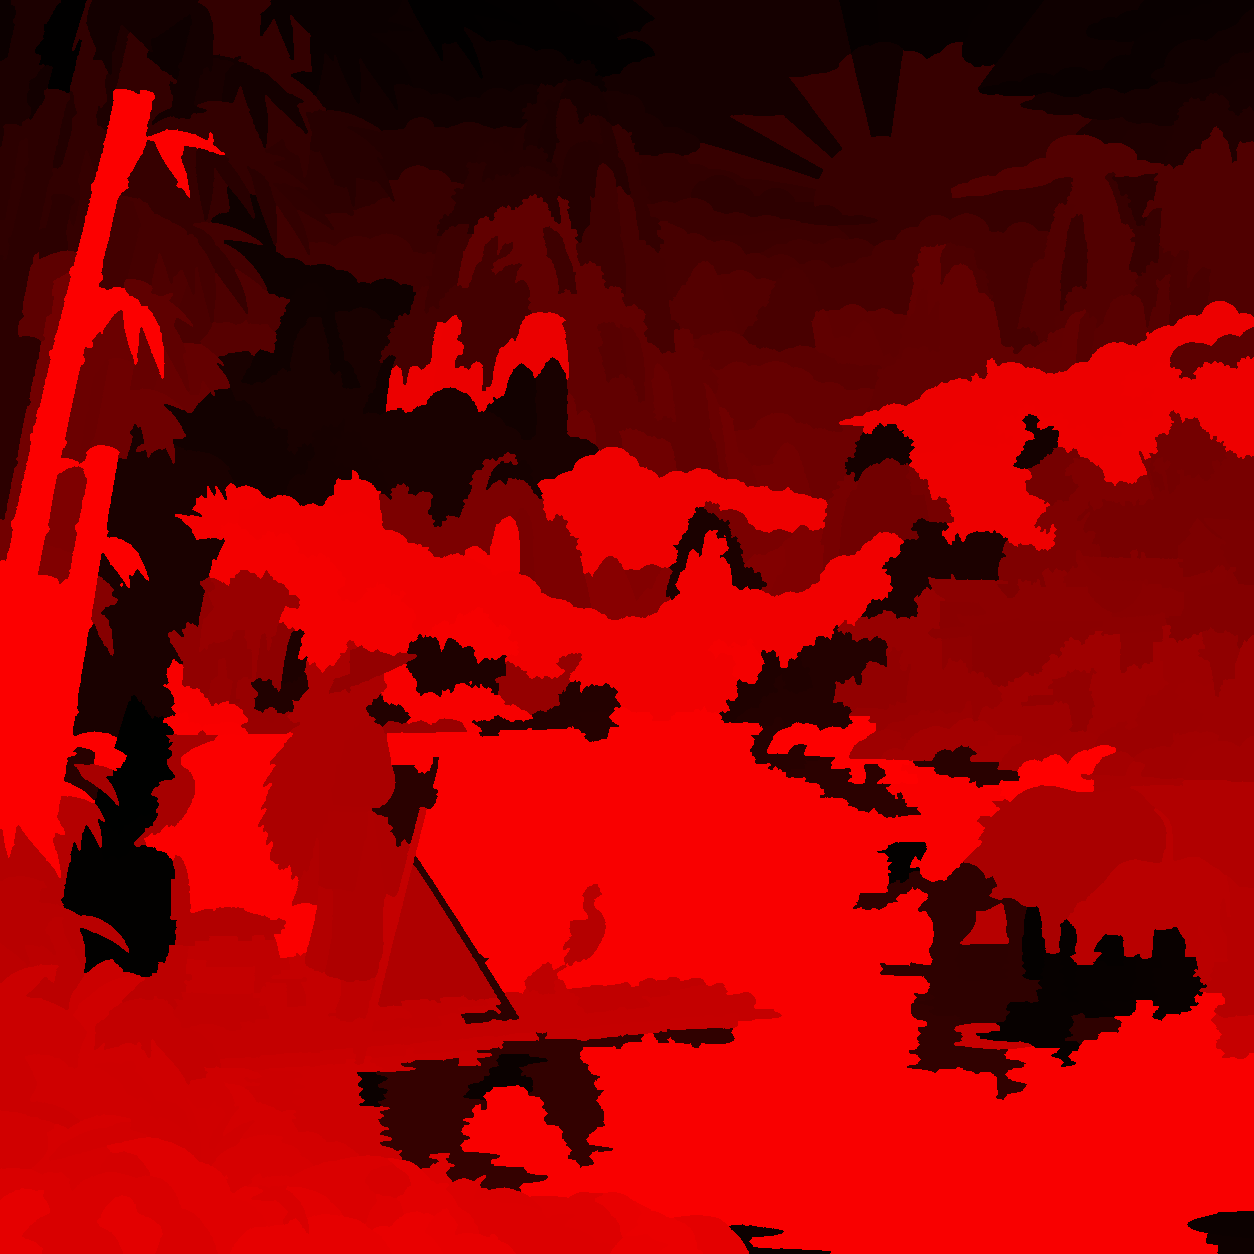
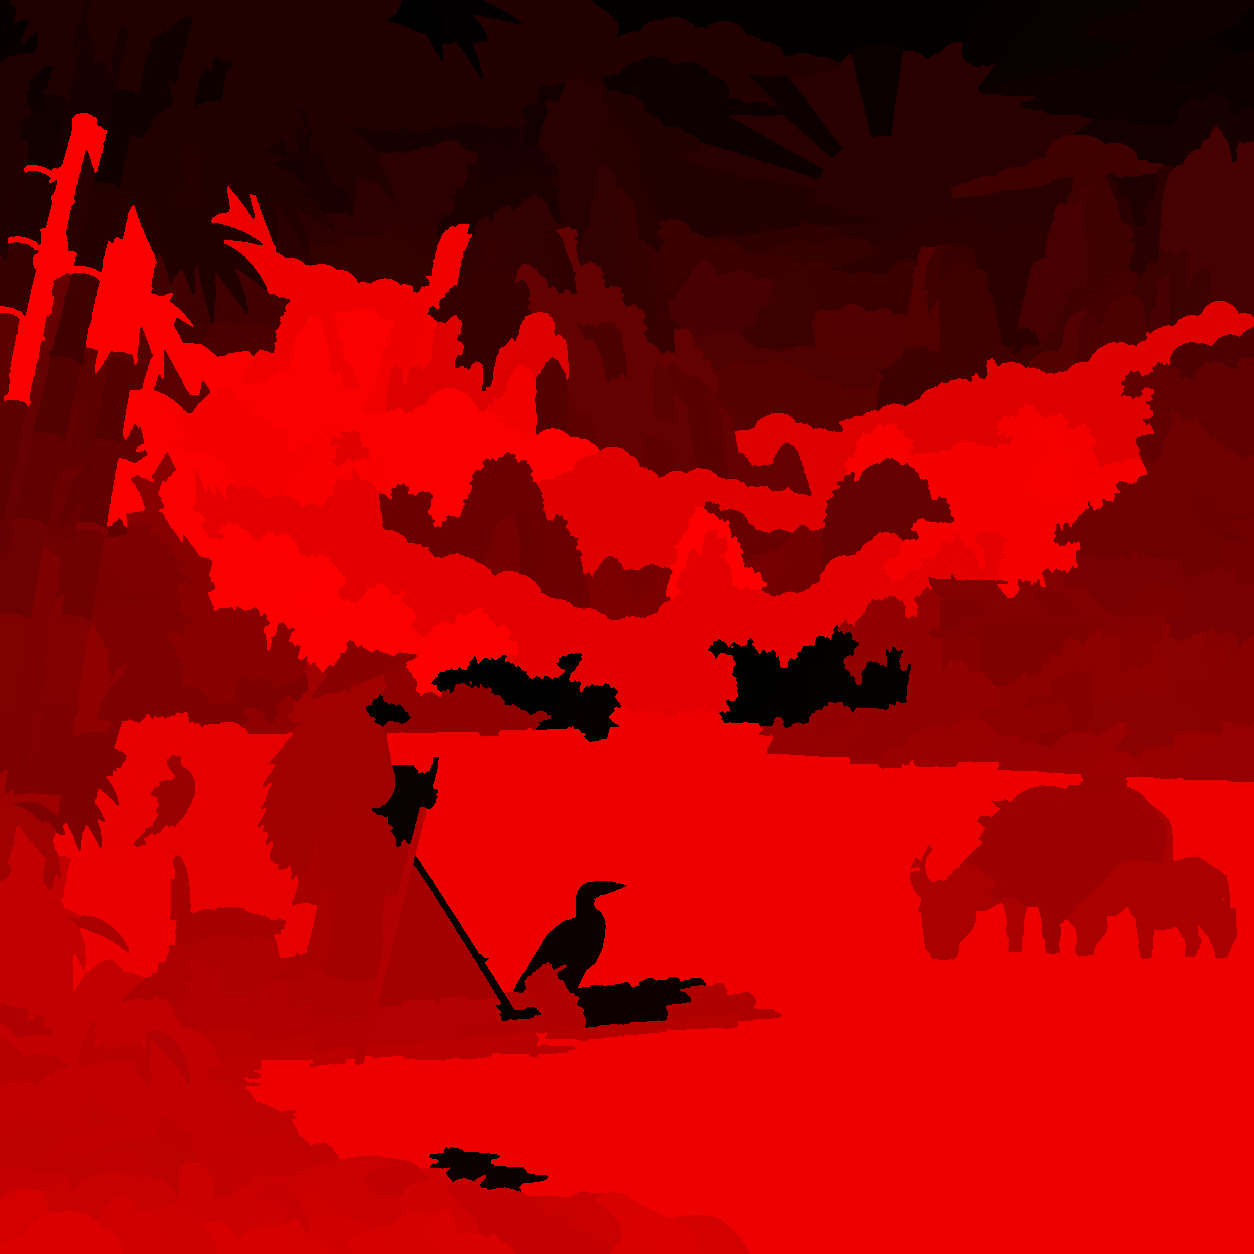
Guilin: the water is one piece that fills to its edges
A water mask (pages/water/<slug>.png) marks the river. The page builder
makes everything inside it one piece in the water's colour: reflections
under the raft and buffalo, the far-shore reflections, the water between
the buffalo's legs and behind its back. Only water cut off by something
standing in it (behind the fisherman by the bird on the post, between his
two poles) is its own piece, numbered the same. Things in the water (bird,
buffalo, horn, raft, man) never join the water, and old cut-line marks
inside the water come out of the drawing.

Builds are now repeatable (fixed k-means seed).

diff --git a/tools/book_page.py b/tools/book_page.py
@@ -9,6 +9,9 @@ becomes one piece you tap, as in a coloring book: small gaps in the long outline
 grey ticks show where), so the water does not run into the mist or a hill. Specks and pieces too small to
 colour join a small neighbour. Each piece is numbered with its main painted colour (sunlight and glow count
 as light on it: water with a sun path is blue), and filling it brings back every colour the painting has there.
+Where pages/water/<slug>.png marks the water (white), all of it is one piece in that colour, reflections and
+ripples included, so one tap colours it to its edges; only a part cut off by something standing in it (the water
+between a fisherman and his bird) is a piece of its own, numbered the same.
 
 Writes public/pages/<slug>/: labels.png, regions.json (v 3, no blob outlines), ink.png (the drawing,
 2x, solid black lines), line.png (the drawing, page size). Updates public/pages.json (regions, colors).
@@ -28,6 +31,7 @@ ap.add_argument('--min', type=float, default=700, help='pieces smaller than this
 ap.add_argument('--gap', type=float, default=4, help='outline gaps up to about twice this (px on a 1254px page) are closed, so each drawn shape is its own piece')
 ap.add_argument('--cap', type=float, default=3, help='touching same-number pieces join only while the piece stays under this %% of the page')
 ap.add_argument('--glow', type=float, default=0.3, help='a piece that is partly sunlight/glow colours takes the number of its deeper colour when that covers at least this share')
+ap.add_argument('--water', default=os.path.join(R, 'pages', 'water'), help='folder of water masks (<slug>.png, white = the water)')
 ap.add_argument('--shade', type=float, default=1.0)
 a = ap.parse_args()
 
@@ -143,11 +147,39 @@ def build(slug):
     remap = np.zeros(lab.max() + 1, np.int32); remap[ids] = np.arange(1, len(ids) + 1)
     lab = remap[lab]; Rn = len(ids)
 
-    blur = cv2.cvtColor(cv2.GaussianBlur(C, (0, 0), 6 * k2 ** 0.5), cv2.COLOR_BGR2LAB).astype(np.float32)
+    # 4b. the water. Where pages/water/<slug>.png exists, its white part is the water: every spot inside it (ripples,
+    #     reflections, the water behind a buffalo's back) is water, and a spot the water's edge runs through (a leg that
+    #     runs on into its reflection, a wing the water leaks into through a gap) is cut along that edge.
+    isW = np.zeros(Rn + 1, bool)
+    wm = cv2.imread(os.path.join(a.water, slug + '.png'), cv2.IMREAD_GRAYSCALE)
+    if wm is not None:
+        wm = cv2.resize(wm, (w, h), interpolation=cv2.INTER_NEAREST) > 127
+        fw = np.bincount(lab.ravel(), weights=wm.ravel(), minlength=Rn + 1); fa = np.bincount(lab.ravel(), minlength=Rn + 1)
+        nxt = Rn + 1
+        for s in np.nonzero((fw > 0) & (fw < fa))[0]:
+            maj = fw[s] * 2 >= fa[s]                       # True: mostly water
+            if min(fw[s], fa[s] - fw[s]) < speck: continue  # a sliver: the whole spot goes with its bigger side
+            ys, xs = np.nonzero(lab == s); bx = (slice(ys.min(), ys.max() + 1), slice(xs.min(), xs.max() + 1))
+            sub = lab[bx]; m = sub == s
+            # the other side, and any bit of this side the cut leaves apart from the rest, become spots of their own
+            for other in (True, False):
+                part_ = m & ((wm[bx] != maj) if other else (wm[bx] == maj))
+                n_, cc, st_, _ = cv2.connectedComponentsWithStats(part_.astype(np.uint8), connectivity=4)
+                for q, k in enumerate(np.argsort(-st_[1:, cv2.CC_STAT_AREA]) + 1):
+                    if st_[k, cv2.CC_STAT_AREA] < speck: continue   # a few stray pixels stay with the spot
+                    if not other and q == 0: continue                # the biggest bit of the bigger side keeps the spot
+                    sub[cc == k] = nxt; nxt += 1
+            lab[bx] = sub
+        Rn = nxt - 1
+        fw = np.bincount(lab.ravel(), weights=wm.ravel(), minlength=Rn + 1); fa = np.bincount(lab.ravel(), minlength=Rn + 1)
+        isW = fw * 2 >= np.maximum(fa, 1); isW[0] = False
+
+    blur =cv2.cvtColor(cv2.GaussianBlur(C, (0, 0), 6 * k2 ** 0.5), cv2.COLOR_BGR2LAB).astype(np.float32)
 
     # 5. palette: k-means in Lab over the painting, then each spot takes the colour nearest its median
     lab3 = cv2.cvtColor(C, cv2.COLOR_BGR2LAB).reshape(-1, 3).astype(np.float32)
-    rng = np.random.default_rng(1); samp = lab3[rng.choice(len(lab3), min(200000, len(lab3)), replace=False)]
+    cv2.setRNGSeed(1)      # the same drawing always gives the same pieces
+    rng = np.random.default_rng(1); samp =lab3[rng.choice(len(lab3), min(200000, len(lab3)), replace=False)]
     _, _, cent = cv2.kmeans(samp, K, None, (cv2.TERM_CRITERIA_EPS + cv2.TERM_CRITERIA_MAX_ITER, 40, 0.5), 3, cv2.KMEANS_PP_CENTERS)
     flat = lab.ravel()
     order = np.argsort(flat, kind='stable'); bounds = np.searchsorted(flat[order], np.arange(1, Rn + 2))
@@ -166,11 +198,16 @@ def build(slug):
     # light warm colours (sunlight, glow: pale gold, peach, yellow) are light falling on a thing, not its own
     # colour: water with a sun path is numbered blue and a fire deep orange, and the fill still brings the glow
     glow = (cent[:, 0] >= 175) & (cent[:, 2] - 128 > 25) & (cent[:, 2] > cent[:, 1])
-    for r in range(Rn):
-        cnt = np.bincount(near[order[bounds[r]:bounds[r + 1]]], minlength=K).astype(np.float64)
+    def number(cnt):
         sc = simk @ cnt                        # similar shades count together: many blues outvote one gold
         if glow[sc.argmax()] and cnt[~glow].sum() >= a.glow * cnt.sum(): sc = np.where(glow, -1, sc)
-        cidx[r] = sc.argmax()
+        return sc.argmax()
+    cntW = np.zeros(K)
+    for r in range(Rn):
+        cnt = np.bincount(near[order[bounds[r]:bounds[r + 1]]], minlength=K).astype(np.float64)
+        cidx[r] = number(cnt)
+        if isW[r + 1]: cntW += cnt
+    if isW.any(): cidx[isW[1:]] = number(cntW)   # all the water has one number: the colour of the water as a whole
     used = np.unique(cidx); cm = np.full(K, -1); cm[used] = np.arange(len(used)); cidx = cm[cidx]; cent = cent[used]
     # order palette light to dark-ish by hue for a tidy picker
     rgb = cv2.cvtColor(cent.reshape(1, -1, 3).astype(np.uint8), cv2.COLOR_LAB2RGB).reshape(-1, 3)
@@ -195,9 +232,14 @@ def build(slug):
     for i, j, c in zip(pa, pb, cnt):
         nb.setdefault(i, []).append(j); nb.setdefault(j, []).append(i); edge[(i, j)] = edge[(j, i)] = c
     gsz = sz.copy(); bigP = 0.01 * w * h; capP = a.cap / 100 * w * h
+    W0 = isW[1:]
+    for i, j in zip(pa, pb):          # the water is one piece wherever it runs on (past ripples and reflections); only
+        if W0[i] and W0[j]:           # something standing in it (a man, a pole) leaves a part of it as a piece of its own
+            ri, rj = root(i), root(j)
+            if ri != rj: par[ri] = rj; gsz[rj] += gsz[ri]
     for k in np.argsort(-cnt):        # longest shared edge first
         i, j = pa[k], pb[k]
-        if cidx[i] != cidx[j] or sz[i] >= bigP or sz[j] >= bigP: continue
+        if cidx[i] != cidx[j] or sz[i] >= bigP or sz[j] >= bigP or W0[i] or W0[j]: continue
         ri, rj = root(i), root(j)
         if ri == rj or gsz[ri] + gsz[rj] >= capP: continue
         par[ri] = rj; gsz[rj] += gsz[ri]
@@ -209,6 +251,7 @@ def build(slug):
         for r in np.argsort(gs):
             if gs[r] == 0 or gs[r] >= minp or root(r) != r: continue
             cand = {root(j) for i in np.nonzero(g == r)[0] for j in nb.get(i, [])} - {r}
+            if not W0[r]: cand = {q for q in cand if not W0[q]}   # nothing joins the water
             if not cand: continue
             # bits of one small thing (a bird's chest and feathers) gather together before any of them joins a big shape
             small_ = {q for q in cand if gs[q] < bigP}
@@ -221,6 +264,19 @@ def build(slug):
         best[g[i]] = cidx[i] if sz[i] >= big[g[i]] else best[g[i]]; big[g[i]] = max(big[g[i]], sz[i])
     roots = np.unique(g); newid = np.zeros(Rn, np.int32); newid[roots] = np.arange(1, len(roots) + 1)
     lab = np.concatenate([[0], newid[g]])[lab]; cidx = best[roots]; Rn = len(roots)
+    if W0.any():
+        # old cut-line marks left in the water (solid pure black with hard edges; the artist's ripples fade through grey):
+        # the painting has none, so they come out of the drawing and the filled water looks like the painting
+        inner = cv2.erode(np.concatenate([[0], W0[roots]]).astype(np.uint8)[lab], np.ones((5, 5), np.uint8)) > 0
+        z = ((Lc < 8) & inner).astype(np.uint8)
+        nz, zl, zst, _ = cv2.connectedComponentsWithStats(z, connectivity=8)
+        ring = (cv2.dilate(z, np.ones((3, 3), np.uint8)) > 0) & (z == 0)
+        zr = cv2.dilate(zl.astype(np.float32), np.ones((3, 3), np.uint8)).astype(np.int32)
+        softr = np.bincount(zr[ring & (Lc > 25) & (Lc < 215)], minlength=nz) / np.maximum(np.bincount(zr[ring], minlength=nz), 1)
+        gone = np.nonzero((softr < 0.6) & (zst[:, cv2.CC_STAT_AREA] >= 8 * k2))[0]; gone = gone[gone > 0]
+        if len(gone):
+            Lc = Lc.copy(); Lc[np.isin(zl, gone)] = 255
+            print(f'  cleared {len(gone)} old cut-line marks from the water')
     used = np.unique(cidx); cm = np.full(len(rgb), -1); cm[used] = np.arange(len(used)); cidx = cm[cidx]; rgb = rgb[used]
     flat = lab.ravel(); order = np.argsort(flat, kind='stable'); bounds = np.searchsorted(flat[order], np.arange(1, Rn + 2))
     spread = np.zeros(Rn)
